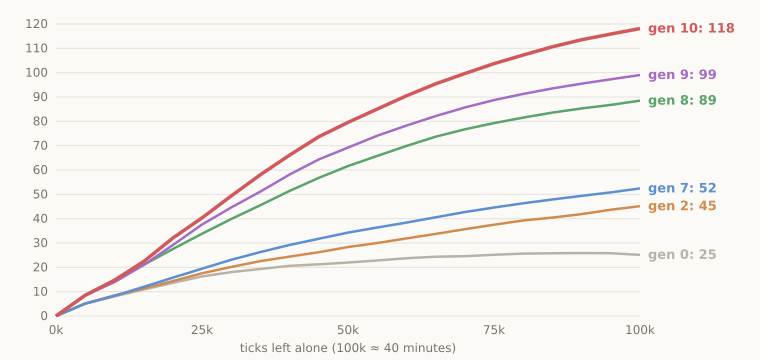
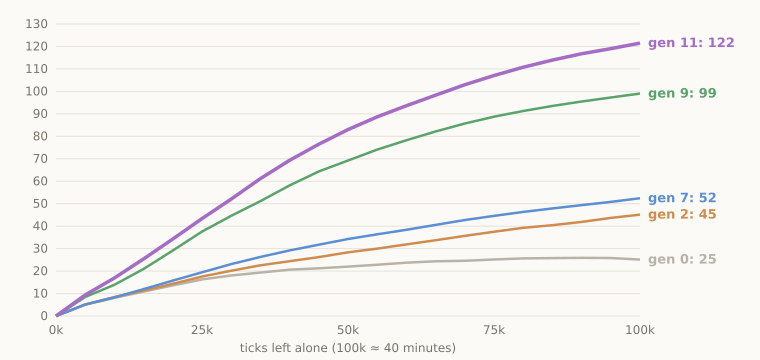
Gen 11: nobody left behind
Fixes found by tracing the stuck-guy penalty:
- Check each solid block as it's placed: if it would wall off a real chunk of
  the colony from home, leave a gap (a doorway) instead. A tower foundation
  had cut a whole nest off, stranding dozens of guys.
- A path aborted while treading water now leaves the guy swimming, not
  falling; and a guy whose path went bad mid-hop gives it up instead of
  flicking between fall and hop forever (the brain skips fallers).
- A stranded swimmer's rescue ladder stops at the water instead of reaching
  for the lake bed.

Benchmark (32 worlds, 100k ticks): 66.9 / 121.5 at 40 min / worst 49.8,
up from 64.1 / 118.1 / 47.8; stuck penalty 3.3 -> 1.0.

Claude-Session: https://claude.ai/code/session_012QCncmftNLcYCcRZ8MbJiX

diff --git a/quartz/components/scripts/particles/colony.ts b/quartz/components/scripts/particles/colony.ts
@@ -86,7 +86,7 @@ import {
   ACT_SIT,
   ACT_PLANT,
 } from "./guys"
-import { standable, solidAt } from "./nav"
+import { standable, solidAt, BODY_H } from "./nav"
 import { isMature, fellTree, canPlant, plantTree, treeAt } from "./trees"
 import type { World } from "./world"
 
@@ -475,6 +475,12 @@ function stepDuration(s: Step): number {
 
 // --- The brain ---
 function brain(w: World, g: Guy) {
+  // a path that went bad mid-hop (and never sorted itself out): give it up
+  if (g.stuck > 1300 && g.job) {
+    endJob(w, g, 10)
+    if (g.mode === "hop") g.mode = "fall"
+    return
+  }
   if (g.mode === "fall" || g.mode === "hop") return
   if (g.wait > 0) {
     g.wait--
@@ -776,6 +782,13 @@ function applyStep(w: World, g: Guy, s: Step): "ok" | "skip" | "wait" | "need" {
         }
       }
       w.grid[k] = s.t
+      // never wall off the way to part of the colony: leave a gap (a doorway) instead
+      if (SOLID[s.t] && cutsWay(w, s.x, s.y)) {
+        w.grid[k] = cur
+        w.nav.computeSafe(w, homeNode(w))
+        c.safeT = w.tick
+        return "skip"
+      }
       pay()
       return "ok"
     }
@@ -909,7 +922,9 @@ function workEscape(w: World, g: Guy) {
       ty = Math.floor(best / w.W)
       lx = tx + (tx > cx ? -1 : 1)
       by = ty
-      while (by < w.H - 1 && !w.isSolid(lx, by + 1) && by - ty < 50) by++
+      // (down to the ground, or to the water for a swimmer to grab from)
+      while (by < w.H - 1 && !w.isSolid(lx, by + 1) && w.get(lx, by + 1) !== WATER && by - ty < 50)
+        by++
       up = !(by - ty >= 50 || w.isSolid(lx, ty) || w.noBuild[ty * w.W + lx])
     }
     if (up) {
@@ -1710,6 +1725,23 @@ function reachableFromHome(w: World, maxExpand = 40000): boolean {
 }
 
 // Would the finished structure wall off part of the walkable network?
+// With a solid cell just placed at (x, y): does it cut a real chunk of the colony
+// off from home? Only checked where people actually walk (the cell is in the body
+// of a safe node), and if it doesn't, the safe map is left up to date.
+function cutsWay(w: World, x: number, y: number): boolean {
+  let onWay = false
+  for (let d = 0; d < BODY_H && !onWay; d++)
+    if (y + d < w.H && w.nav.isSafe((y + d) * w.W + x)) onWay = true
+  if (!onWay) return false
+  const home = homeNode(w)
+  if (home < 0) return false
+  const before = w.nav.safeCount
+  w.nav.computeSafe(w, home)
+  w.colony.safeT = w.tick
+  w.colony.budget -= 3000
+  return w.nav.safeCount < before - Math.max(40, before * 0.02)
+}
+
 function cutsNetwork(w: World, steps: Step[]): boolean {
   const c = w.colony
   const home = homeNode(w)

diff --git a/quartz/components/scripts/particles/guys.ts b/quartz/components/scripts/particles/guys.ts
@@ -270,7 +270,11 @@ export function moveGuy(w: World, g: Guy) {
       g.stuck = Math.max(g.stuck, 1000)
       // drop out of a hop or climb (gravity sorts it out), so the brain gets a look in
       if (g.mode === "hop" || g.mode === "climb" || g.mode === "walk")
-        g.mode = climbAt(w, cx, cy) || supported(w, cx, cy) ? "stand" : "fall"
+        g.mode = waterAt(w, cx, cy)
+          ? "swim"
+          : climbAt(w, cx, cy) || supported(w, cx, cy)
+            ? "stand"
+            : "fall"
       posed(w, g, 0.45)
       return
     }

diff --git a/content/Experiments/Ant Colony.md b/content/Experiments/Ant Colony.md
@@ -26,7 +26,8 @@ The rules: anything the guys _do_ can change, but the terrain generator and the 
 | 7: into the hills       |     28.5 |             52.4 |    **16.2** |
 | 8: everyone pitches in  |     50.3 |             88.5 |        20.6 |
 | 9: the long way round   |     55.8 |             99.0 |        21.4 |
-| 10: winzes              | **64.1** |        **118.1** |    **47.8** |
+| 10: winzes              |     64.1 |            118.1 |        47.8 |
+| 11: nobody left behind  | **66.9** |        **121.5** |    **49.8** |
 
 ![[Assets/ant-colony/gen0-gen6-tablet-706844.png]]
 
@@ -114,6 +115,18 @@ _The mountain-top world that used to be the weakest: now the whole mountain is a
 ![[Assets/ant-colony/gen9-gen10-laptop-261462.png]]
 
 _A laptop world: the far shore of the lake finally gets dug, and there are levels all the way along._
+
+## Gen 11: nobody left behind
+
+A generation of bug fixes, found by hunting down where the stuck-guy penalty came from:
+
+- **A tower that cut the colony in two.** A tower's stone foundation went down right across the only path to a whole nest, and dozens of guys found themselves stranded underground and gave up. Towers were checked for this when they were planned, but nests grow, and a path that didn't matter then can matter a lot by the time the stone goes down. Now every solid block is checked as it's placed, and if it would wall off part of the colony the builders leave a doorway instead.
+- **Five guys frozen at a lake's edge.** A tower went up over the next spot on their path while they were treading water, and they flicked between "falling" and "hopping" forever, so they never stopped to think again.
+- **Swimmers who couldn't be rescued.** A guy stranded in a lake would plan a rope ladder down to the lake bed, which they couldn't reach. The ladder now stops at the water.
+
+![[Assets/ant-colony/gen10-gen11-laptop-706844.png]]
+
+_The laptop world with the five frozen guys: nobody is stuck now, and it shows._
 
 ## Little things fixed along the way
 
